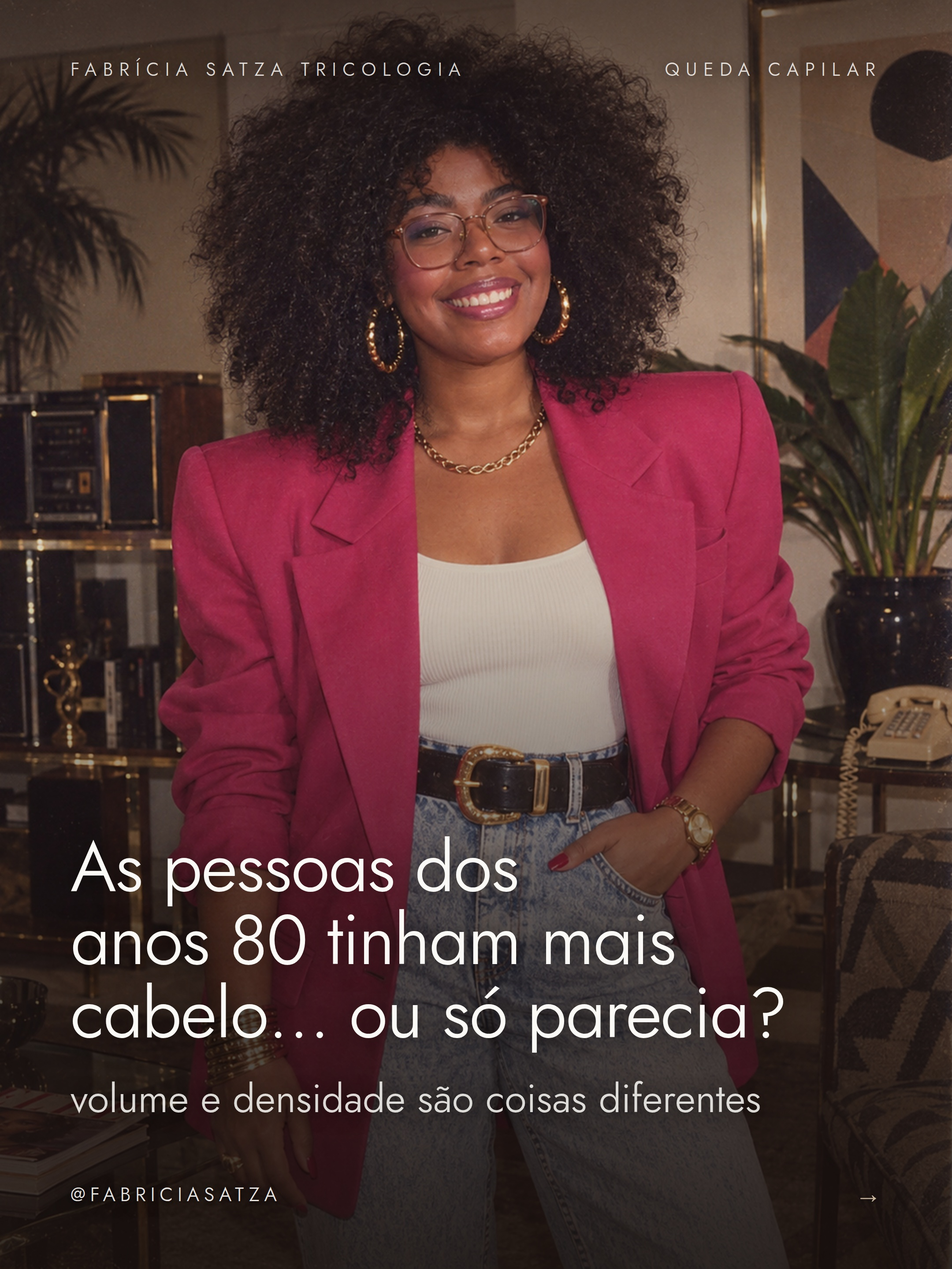
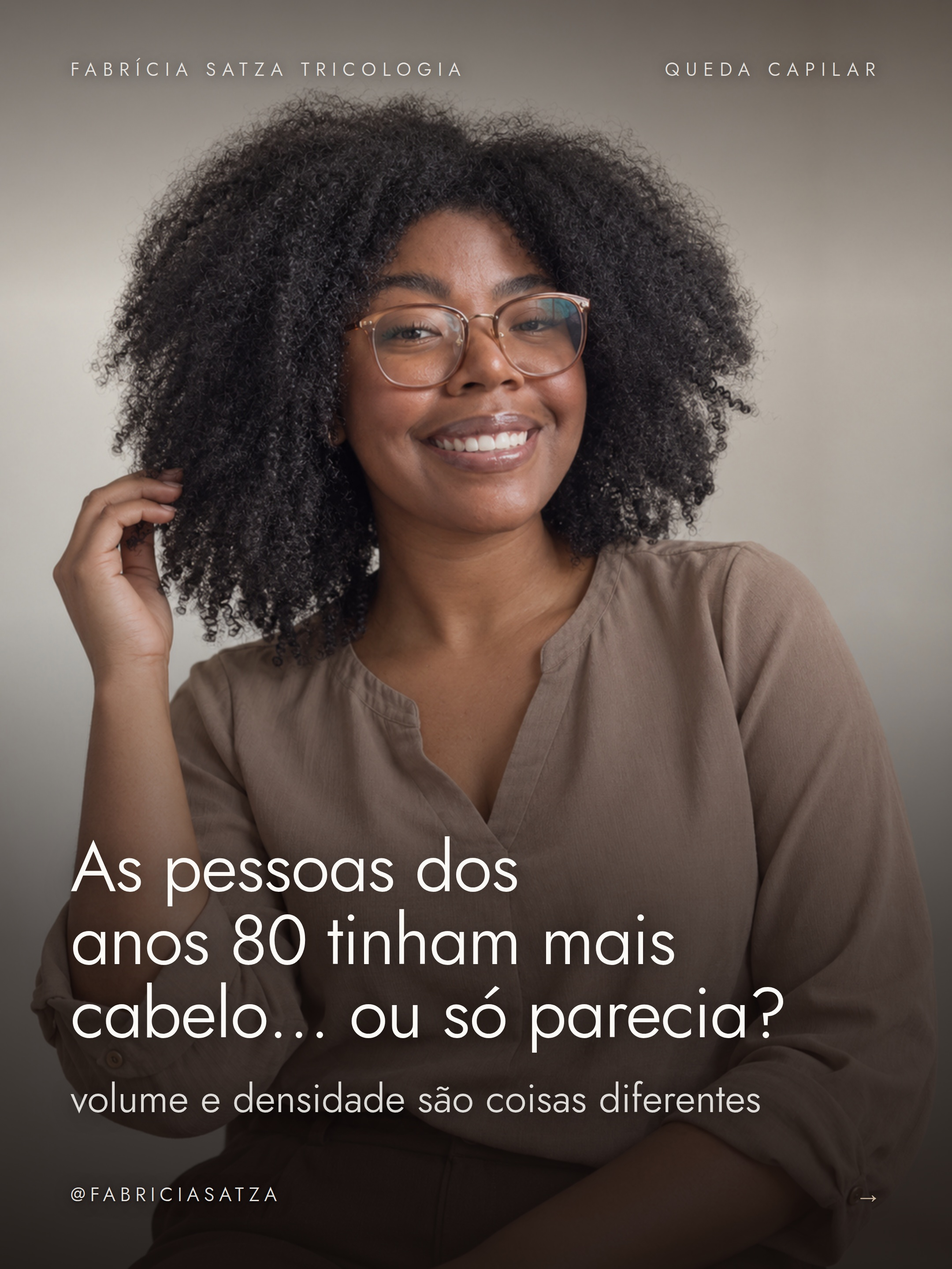
Retrato de estudio na capa, foto dos anos 80 no slide 02
A troca melhora a peca por um motivo que nao e so de gosto: a foto dos anos
80 cai justo no slide que diz "olhando fotos antigas". Ali ela ilustra a
frase em vez de decorar o titulo, e a capa fica com o retrato neutro, que e
a marca e nao a fantasia.

O carrossel vai a oito slides. A lista de quatro itens desceu para um slide
de fundo limpo: enterrar a cena dos anos 80 sob quatro linhas numeradas
gastaria a imagem justamente onde ela tem funcao.

Titulo do slide 02 com -2px: o "O" redondo caia 2px a direita do rotulo logo
acima. Conferido linha a linha nas duas fotos — tudo entre 80,5 e 83,0.

Claude-Session: https://claude.ai/code/session_01DL9VyhWUWZtPxmDSzgTccC

diff --git a/carrossel-volume-densidade.html b/carrossel-volume-densidade.html
@@ -407,10 +407,10 @@ em,i,.destaque{font-style:normal;color:var(--terracota-esc)}
 <body>
 <div class="dl" onclick="baixar()">&#8595; Baixar ZIP</div>
 
-<!-- 01 ▸ CAPA — foto dela nos anos 80. Texto claro direto na imagem, sem caixa. -->
+<!-- 01 ▸ CAPA — retrato de estudio. Texto claro direto na foto, sem caixa. -->
 <section class="slide sobre-foto">
-  <img class="foto" src="fotos-volume/fabricia-80.jpg" alt="">
-  <div class="veu" style="background:linear-gradient(to bottom,rgba(20,14,12,.56) 0%,rgba(20,14,12,.06) 24%,rgba(20,14,12,.20) 48%,rgba(20,14,12,.66) 74%,rgba(20,14,12,.88) 100%)"></div>
+  <img class="foto" src="fotos-volume/fabricia-capa.jpg" alt="">
+  <div class="veu" style="background:linear-gradient(to bottom,rgba(20,14,12,.52) 0%,rgba(20,14,12,.05) 24%,rgba(20,14,12,.16) 48%,rgba(20,14,12,.64) 74%,rgba(20,14,12,.88) 100%)"></div>
   <div class="cab" style="font-size:21px;letter-spacing:.34em;color:rgba(252,250,247,.86);text-shadow:0 1px 14px rgba(0,0,0,.6)"><span>Fabrícia Satza Tricologia</span><span>Queda capilar</span></div>
   <div class="corpo" style="gap:24px">
     <div class="display" style="font-size:80px;color:var(--claro);text-shadow:0 2px 30px rgba(0,0,0,.6)">As pessoas dos anos 80 tinham mais cabelo&hellip; ou só parecia?</div>
@@ -419,13 +419,26 @@ em,i,.destaque{font-style:normal;color:var(--terracota-esc)}
   <div class="rod"><span>@fabriciasatza</span><span class="segue">&#8594;</span></div>
 </section>
 
-<!-- 02 ▸ LISTA — o que muda a percepcao de volume. Ela listou sete coisas;
+<!-- 02 ▸ FOTO DOS ANOS 80 — a "foto antiga" de que o texto fala. -->
+<section class="slide sobre-foto">
+  <img class="foto" src="fotos-volume/fabricia-80.jpg" alt="">
+  <div class="veu" style="background:linear-gradient(to bottom,rgba(20,14,12,.58) 0%,rgba(20,14,12,.10) 22%,rgba(20,14,12,.24) 46%,rgba(20,14,12,.70) 72%,rgba(20,14,12,.90) 100%)"></div>
+  <div class="cab"><span>Fabrícia Satza Tricologia</span><span>Queda capilar</span></div>
+  <div class="corpo" style="gap:22px">
+    <div class="rotulo" style="color:rgba(252,250,247,.88);text-shadow:0 1px 14px rgba(0,0,0,.6)">A primeira impressão</div>
+    <div class="titulo" style="font-size:58px;margin-left:-2px;color:var(--claro);text-shadow:0 2px 26px rgba(0,0,0,.62)">Olhando fotos antigas é fácil pensar que tinham mais cabelo.</div>
+    <div class="texto" style="color:rgba(252,250,247,.86);text-shadow:0 2px 22px rgba(0,0,0,.65)">Mas ocupar mais espaço não é ter mais fios.</div>
+  </div>
+  <div class="rod"><span>@fabriciasatza</span><span class="segue">&#8594;</span></div>
+</section>
+
+<!-- 03 ▸ LISTA — o que muda a percepcao de volume. Ela listou sete coisas;
      entraram em quatro linhas juntando o que e a mesma familia. -->
 <section class="slide">
   <div class="cab"><span>Fabrícia Satza Tricologia</span><span>Queda capilar</span></div>
   <div class="corpo">
-    <div class="rotulo">A primeira impressão</div>
-    <div class="subtitulo">Olhando fotos antigas é fácil pensar que tinham mais cabelo. Mas ocupar mais espaço não é ter mais fios.</div>
+    <div class="rotulo">O que muda a percepção</div>
+    <div class="subtitulo">Um cabelo ocupar mais espaço não significa que existam mais fios no couro cabeludo.</div>
     <div class="lista">
       <div class="item"><div class="item-n">01</div><div class="item-t">O corte e o penteado</div></div>
       <div class="item"><div class="item-n">02</div><div class="item-t">A curvatura do fio</div></div>
@@ -436,7 +449,7 @@ em,i,.destaque{font-style:normal;color:var(--terracota-esc)}
   <div class="rod"><span>@fabriciasatza</span><span class="segue">&#8594;</span></div>
 </section>
 
-<!-- 03 ▸ CAMPOS — em vez de afirmar a diferenca em duas colunas de texto, o
+<!-- 04 ▸ CAMPOS — em vez de afirmar a diferenca em duas colunas de texto, o
      slide MOSTRA. Dois campos de mesma area: a esquerda 14 fios grossos, a
      direita 26 finos. O de menos fios parece mais cheio, e e o argumento
      inteiro da peca resolvido em uma imagem.
@@ -548,7 +561,7 @@ em,i,.destaque{font-style:normal;color:var(--terracota-esc)}
   <div class="rod"><span>@fabriciasatza</span><span class="segue">&#8594;</span></div>
 </section>
 
-<!-- 04 ▸ QUADRO — a consequencia, e o par de frases dela como conclusao. -->
+<!-- 05 ▸ QUADRO — a consequencia, e o par de frases dela como conclusao. -->
 <section class="slide">
   <div class="cab"><span>Fabrícia Satza Tricologia</span><span>Queda capilar</span></div>
   <div class="corpo">
@@ -560,7 +573,7 @@ em,i,.destaque{font-style:normal;color:var(--terracota-esc)}
   <div class="rod"><span>@fabriciasatza</span><span class="segue">&#8594;</span></div>
 </section>
 
-<!-- 05 ▸ TRICOSCOPIA — slide inteiro sobre a imagem, com .corpo cheio. -->
+<!-- 06 ▸ TRICOSCOPIA — slide inteiro sobre a imagem, com .corpo cheio. -->
 <section class="slide sobre-foto">
   <img class="foto" src="fotos-volume/tricoscopia-densidade.jpg" alt="">
   <div class="veu" style="background:linear-gradient(to bottom,rgba(18,13,11,.68) 0%,rgba(18,13,11,.51) 18%,rgba(18,13,11,.50) 50%,rgba(18,13,11,.53) 82%,rgba(18,13,11,.72) 100%)"></div>
@@ -579,7 +592,7 @@ em,i,.destaque{font-style:normal;color:var(--terracota-esc)}
   <div class="rod"><span>@fabriciasatza</span><span class="segue">&#8594;</span></div>
 </section>
 
-<!-- 06 ▸ VIRADA — cafe profundo. A ultima publicada foi terracota. -->
+<!-- 07 ▸ VIRADA — cafe profundo. A ultima publicada foi terracota. -->
 <section class="slide cafe">
   <div class="cab"><span>Fabrícia Satza Tricologia</span><span>Queda capilar</span></div>
   <div class="corpo centro">
@@ -590,7 +603,7 @@ em,i,.destaque{font-style:normal;color:var(--terracota-esc)}
   <div class="rod"><span>@fabriciasatza</span><span class="segue">&#8594;</span></div>
 </section>
 
-<!-- 07 ▸ CHAMADA — fecha com a frase que ja virou assinatura dela. -->
+<!-- 08 ▸ CHAMADA — fecha com a frase que ja virou assinatura dela. -->
 <section class="slide">
   <div class="cab"><span>Fabrícia Satza Tricologia</span><span>Queda capilar</span></div>
   <div class="corpo centro">
